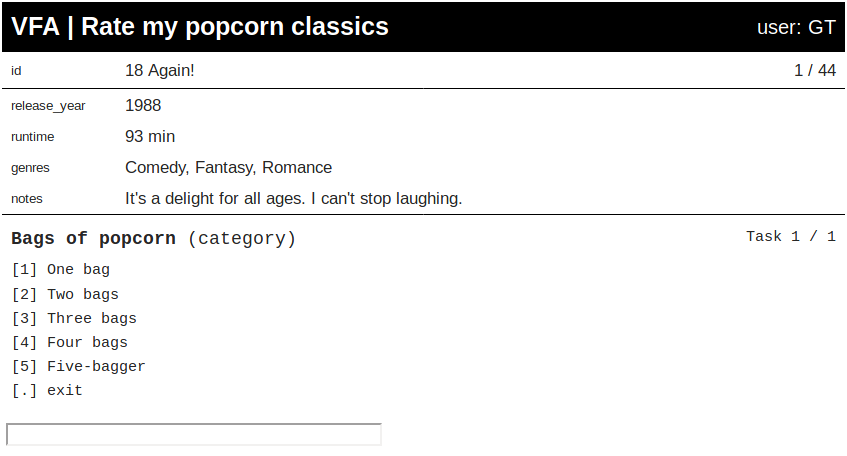
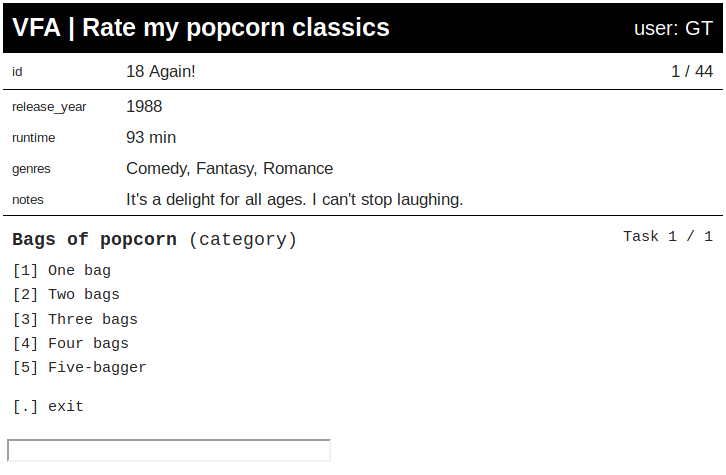
Update image

diff --git a/README.md b/README.md
@@ -65,7 +65,7 @@ Or use pip:
 
 In Jupyter this gives:
 
-<img src="https://github.com/lcvriend/humannotator/blob/master/examples/popcorn_classics.png" alt="Humannotator" width="847">
+<img src="https://github.com/lcvriend/humannotator/blob/master/examples/popcorn_classics.png" alt="Humannotator" width="726">
 
 ### Annotate your data
 
